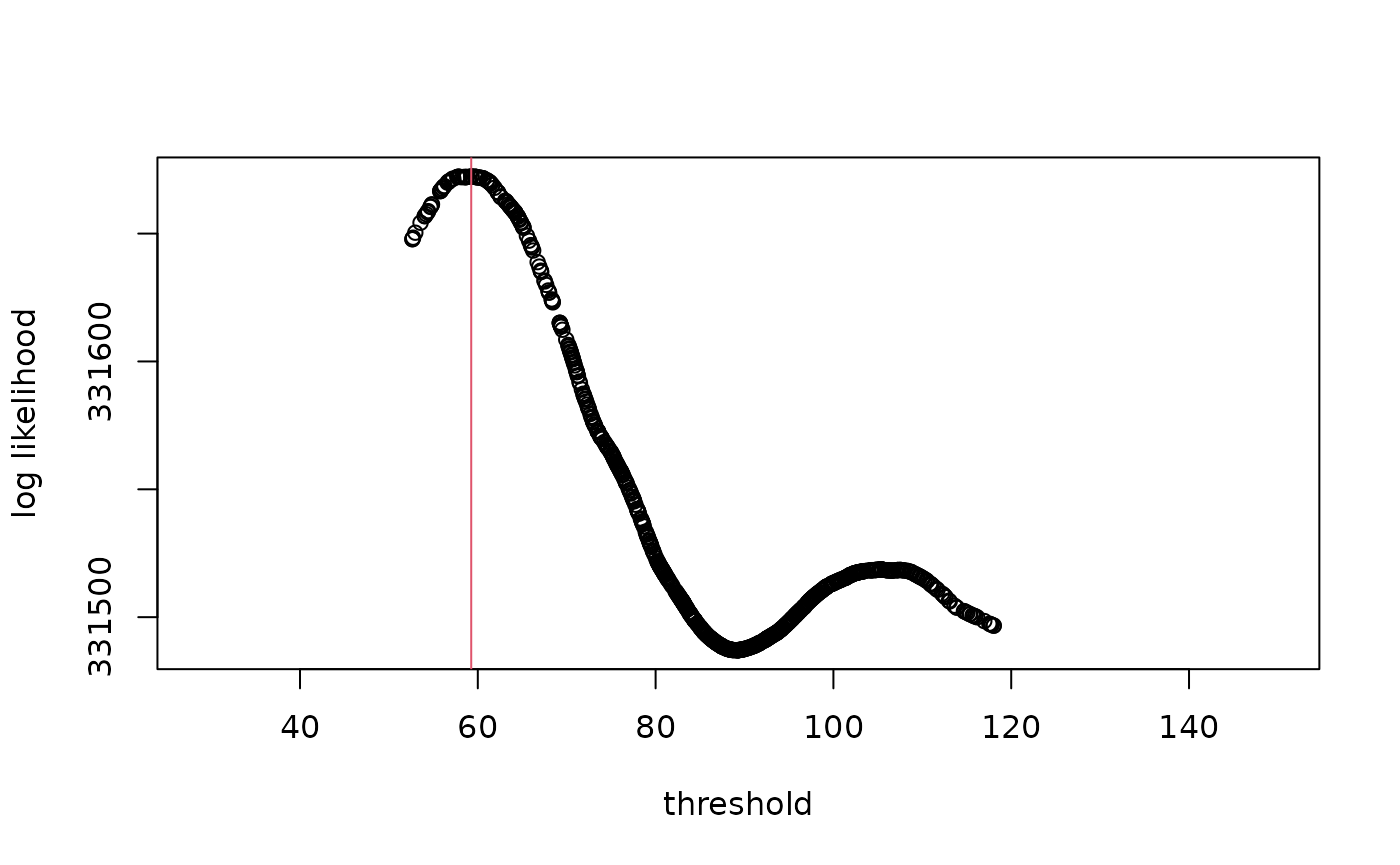
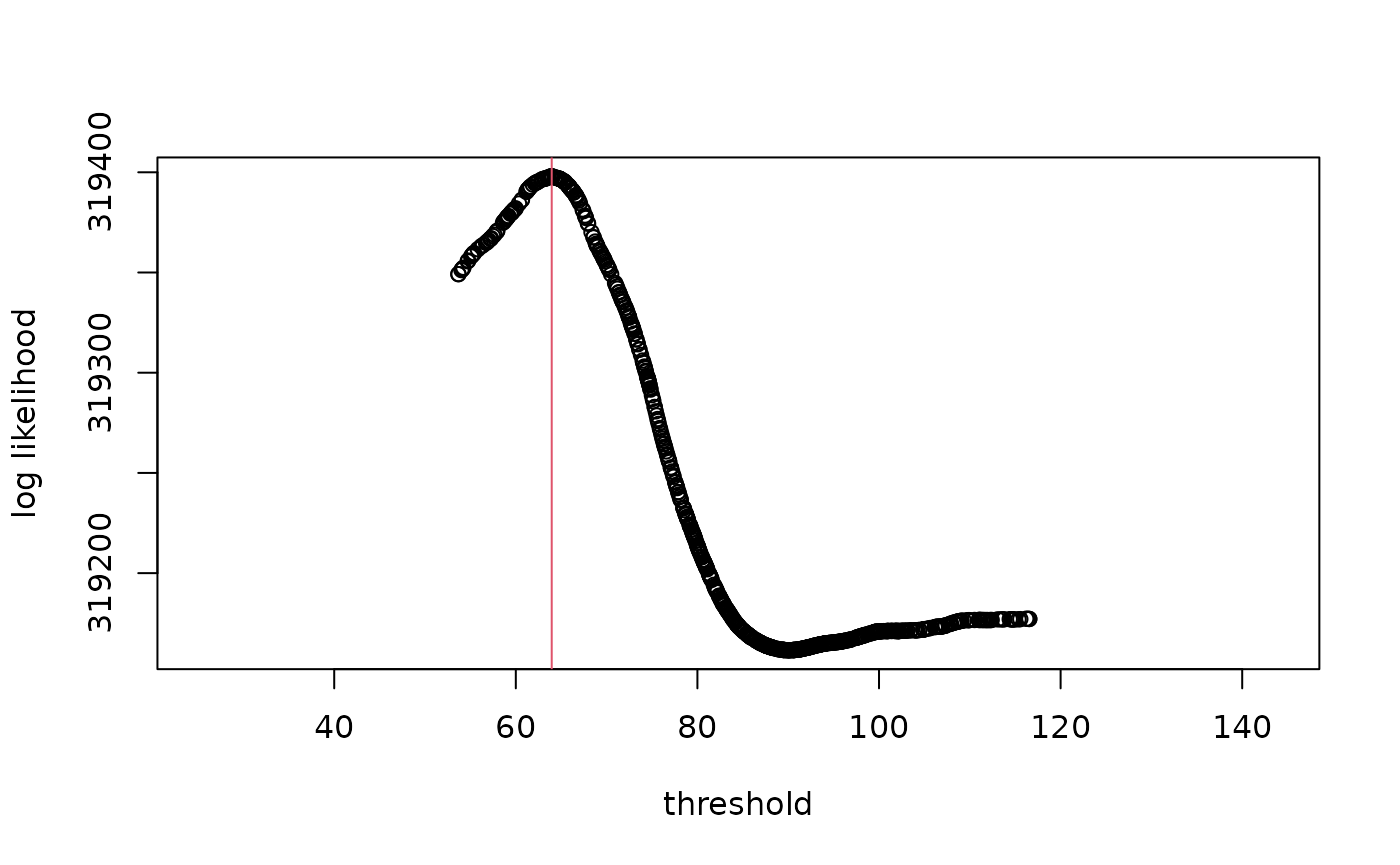
Deploying to gh-pages from @ rmk118/morphmat@f1d512b0329ec5bc2f8ac1f6e49691b1e6e82d68 🚀

diff --git a/articles/broken-stick.html b/articles/broken-stick.html
@@ -101,7 +101,7 @@ is taken to be SM50.</p>
 <p>We will start by simulating a data set with a known SM50 value of 75
 mm to demonstrate the use (and limitations) of broken-stick methods.</p>
 <div class="sourceCode" id="cb2"><pre class="downlit sourceCode r">
-<code class="sourceCode R"><span><span class="fu"><a href="https://rdrr.io/r/base/Random.html" class="external-link">set.seed</a></span><span class="op">(</span><span class="fl">123</span><span class="op">)</span> <span class="co"># set seed for reproducibility</span></span>
+<code class="sourceCode R"><span><span class="fu"><a href="https://rdrr.io/r/base/Random.html" class="external-link">set.seed</a></span><span class="op">(</span><span class="fl">12</span><span class="op">)</span> <span class="co"># set seed for reproducibility</span></span>
 <span></span>
 <span><span class="va">fc</span> <span class="op">&lt;-</span> <span class="fu"><a href="../reference/fake_crustaceans.html">fake_crustaceans</a></span><span class="op">(</span></span>
 <span>  error_scale <span class="op">=</span> <span class="fl">17</span>,</span>
@@ -134,13 +134,13 @@ as those from the “delta” and “gradient” methods included in the
 confidence intervals for the break point:</p>
 <pre><code><span><span class="co">#&gt; Delta method:</span></span>
 <span><span class="co">#&gt;           Est. CI(95%).low CI(95%).up</span></span>
-<span><span class="co">#&gt; psi1.x 59.2594     52.0697     66.449</span></span>
+<span><span class="co">#&gt; psi1.x 63.9545     57.1425    70.7665</span></span>
 <span><span class="co">#&gt; Score method:</span></span>
 <span><span class="co">#&gt;           Est. CI(95%).low CI(95%).up</span></span>
-<span><span class="co">#&gt; psi1.x 59.2594     51.6198    65.0947</span></span>
+<span><span class="co">#&gt; psi1.x 63.9545     50.1308    67.6307</span></span>
 <span><span class="co">#&gt; Gradient method:</span></span>
 <span><span class="co">#&gt;           Est. CI(95%).low CI(95%).up</span></span>
-<span><span class="co">#&gt; psi1.x 59.2594      51.016    67.7093</span></span></code></pre>
+<span><span class="co">#&gt; psi1.x 63.9545     53.7911    70.2144</span></span></code></pre>
 <p>We can also use an ANOVA test to compare the segmented model to a
 single linear model:</p>
 <div class="sourceCode" id="cb5"><pre class="downlit sourceCode r">
@@ -149,9 +149,9 @@ single linear model:</p>
 <span><span class="co">#&gt; </span></span>
 <span><span class="co">#&gt; Model 1: y ~ x</span></span>
 <span><span class="co">#&gt; Model 2: y ~ x + U1.x + psi1.x</span></span>
-<span><span class="co">#&gt;   Res.Df    RSS Df Sum of Sq      F   Pr(&gt;F)    </span></span>
-<span><span class="co">#&gt; 1    798 7681.8                                 </span></span>
-<span><span class="co">#&gt; 2    796 7496.5  2    185.29 9.8375 6.02e-05 ***</span></span>
+<span><span class="co">#&gt;   Res.Df    RSS Df Sum of Sq      F    Pr(&gt;F)    </span></span>
+<span><span class="co">#&gt; 1    798 7866.2                                  </span></span>
+<span><span class="co">#&gt; 2    796 7629.8  2     236.4 12.332 5.318e-06 ***</span></span>
 <span><span class="co">#&gt; ---</span></span>
 <span><span class="co">#&gt; Signif. codes:  0 '***' 0.001 '**' 0.01 '*' 0.05 '.' 0.1 ' ' 1</span></span></code></pre></div>
 <div class="figure">
@@ -185,13 +185,13 @@ breakpoint <span class="citation">(<a href="#ref-fong2017">Fong et al.
 <span><span class="co">#&gt; </span></span>
 <span><span class="co">#&gt; Coefficients:</span></span>
 <span><span class="co">#&gt;                    est Std. Error*     (lower    upper)     p.value*</span></span>
-<span><span class="co">#&gt; (Intercept) -0.1642533  0.84261672 -2.0797746 1.2232829 8.454458e-01</span></span>
-<span><span class="co">#&gt; x            0.1775513  0.01840241  0.1477799 0.2199174 4.999353e-22</span></span>
-<span><span class="co">#&gt; (x-chngpt)+  0.1626764  0.01871295  0.1230745 0.1964292 3.522081e-18</span></span>
+<span><span class="co">#&gt; (Intercept) -0.9153689  0.62858364 -1.9643531 0.4996948 1.453262e-01</span></span>
+<span><span class="co">#&gt; x            0.2005470  0.01357774  0.1688772 0.2221020 2.277627e-49</span></span>
+<span><span class="co">#&gt; (x-chngpt)+  0.1425691  0.01659954  0.1134477 0.1785179 8.793325e-18</span></span>
 <span><span class="co">#&gt; </span></span>
 <span><span class="co">#&gt; Threshold:</span></span>
 <span><span class="co">#&gt;        est Std. Error     (lower     upper) </span></span>
-<span><span class="co">#&gt;  59.259390   2.342262  55.983514  65.165182</span></span></code></pre></div>
+<span><span class="co">#&gt;  63.954507   2.031396  58.890638  66.853710</span></span></code></pre></div>
 <div class="figure">
 <img src="broken-stick_files/figure-html/fig-chngpt-plots-1.png" alt="Broken-stick model from the package chngpt" width="700"><p class="caption">
 Broken-stick model from the package chngpt
@@ -225,7 +225,7 @@ produces very similar results to the default bootstrap method.</p>
 <span>  <span class="op">)</span></span>
 <span><span class="op">)</span><span class="op">[[</span><span class="st">"chngpt"</span><span class="op">]</span><span class="op">]</span></span>
 <span><span class="co">#&gt;        est Std. Error     (lower     upper) </span></span>
-<span><span class="co">#&gt;  59.259390   4.019829  51.157970  66.915699</span></span></code></pre></div>
+<span><span class="co">#&gt;  63.954507   3.364602  55.814677  69.003917</span></span></code></pre></div>
 <p>Adding a starting breakpoint value of 75 (i.e., initializing the
 search at the correct value) through the “chngpt.init” argument does not
 affect the estimate, although it does result in narrower confidence
@@ -243,7 +243,7 @@ intervals:</p>
 <span>  <span class="op">)</span></span>
 <span><span class="op">)</span><span class="op">[[</span><span class="st">"chngpt"</span><span class="op">]</span><span class="op">]</span></span>
 <span><span class="co">#&gt;        est Std. Error     (lower     upper) </span></span>
-<span><span class="co">#&gt;  59.259390   2.342262  55.983514  65.165182</span></span></code></pre></div>
+<span><span class="co">#&gt;  63.954507   2.031396  58.890638  66.853710</span></span></code></pre></div>
 <p>This method is EXTREMELY sensitive to the “lb.quantile” and
 “ub.quantile” arguments, which refer to the lower and upper bounds of
 the search range for change point estimate, respectively (the function
@@ -265,7 +265,7 @@ SM50 value closer to the true value of 75 mm.</p>
 <span>  <span class="op">)</span></span>
 <span><span class="op">)</span><span class="op">[[</span><span class="st">"chngpt"</span><span class="op">]</span><span class="op">]</span><span class="op">[</span><span class="fl">1</span><span class="op">]</span></span>
 <span><span class="co">#&gt;      est </span></span>
-<span><span class="co">#&gt; 77.05939</span></span></code></pre></div>
+<span><span class="co">#&gt; 76.00473</span></span></code></pre></div>
 <p>The estimates and accuracy also change dramatically even with
 slightly different variations of data with the exact same underlying
 structure. Results from detailed investigations of the sensitivity of
@@ -300,7 +300,7 @@ fast and might be helpful for large data sets).</p>
 <span><span class="co">#&gt;  Maximum of Likelihood Ratio Statistics</span></span>
 <span><span class="co">#&gt; </span></span>
 <span><span class="co">#&gt; data:  fc</span></span>
-<span><span class="co">#&gt; Maximal statistic = 19.533, threshold = 59.306, p-value = 4e-05</span></span>
+<span><span class="co">#&gt; Maximal statistic = 24.358, threshold = 64.292, p-value &lt; 2.2e-16</span></span>
 <span><span class="co">#&gt; alternative hypothesis: two-sided</span></span>
 <span></span>
 <span><span class="co"># Model with better upper and lower bounds to return</span></span>
@@ -318,7 +318,7 @@ fast and might be helpful for large data sets).</p>
 <span><span class="co">#&gt;  Maximum of Likelihood Ratio Statistics</span></span>
 <span><span class="co">#&gt; </span></span>
 <span><span class="co">#&gt; data:  fc</span></span>
-<span><span class="co">#&gt; Maximal statistic = 7.7314, threshold = 75.475, p-value = 0.01028</span></span>
+<span><span class="co">#&gt; Maximal statistic = 13.909, threshold = 74.531, p-value = 0.00036</span></span>
 <span><span class="co">#&gt; alternative hypothesis: two-sided</span></span></code></pre></div>
 <p>It is interesting that this function returns a slightly different
 breakpoint/threshold estimate from the <code><a href="https://rdrr.io/pkg/chngpt/man/chngptm.html" class="external-link">chngptm()</a></code> function
@@ -343,7 +343,7 @@ quantile to the 0.8 quantile of the x-axis variable.</p>
 <div class="sourceCode" id="cb11"><pre class="downlit sourceCode r">
 <code class="sourceCode R"><span><span class="va">regrans_est</span> <span class="op">&lt;-</span> <span class="fu"><a href="../reference/regrans.html">regrans</a></span><span class="op">(</span><span class="va">fc</span>, <span class="st">"x"</span>, <span class="st">"y"</span>, verbose <span class="op">=</span> <span class="cn">FALSE</span><span class="op">)</span></span>
 <span><span class="va">regrans_est</span></span>
-<span><span class="co">#&gt; [1] 69.35071</span></span></code></pre></div>
+<span><span class="co">#&gt; [1] 67.67091</span></span></code></pre></div>
 <p><img src="broken-stick_files/figure-html/unnamed-chunk-16-1.png" width="700"></p>
 <p>As with the previous broken-stick methods, REGRANS tends to
 underestimate SM50 and the model estimates are highly sensitive to the
@@ -364,7 +364,7 @@ values of the x-variable present in the data set</em>.</p>
 <div class="sourceCode" id="cb12"><pre class="downlit sourceCode r">
 <code class="sourceCode R"><span><span class="va">stevens_est</span> <span class="op">&lt;-</span> <span class="fu"><a href="../reference/broken_stick_stevens.html">broken_stick_stevens</a></span><span class="op">(</span><span class="va">fc</span>, <span class="st">"x"</span>, <span class="st">"y"</span>, verbose <span class="op">=</span> <span class="cn">FALSE</span><span class="op">)</span></span>
 <span><span class="va">stevens_est</span></span>
-<span><span class="co">#&gt; [1] 73.51211</span></span></code></pre></div>
+<span><span class="co">#&gt; [1] 68.33387</span></span></code></pre></div>
 <p><img src="broken-stick_files/figure-html/unnamed-chunk-18-1.png" width="700"></p>
 <div class="section level3 unnumbered">
 <h3 class="unnumbered" id="references">References<a class="anchor" aria-label="anchor" href="#references"></a>

diff --git a/articles/two-line.html b/articles/two-line.html
@@ -74,7 +74,7 @@
     
 <!-- Here I will write a vignette explaining all of the two-line regression methods. This will be useful for referring readers to more complex options available in packages like `chngpt` that are not available within `morphmat`. -->
 <div class="section level3">
-<h3 id="sec-twoA">Standard<a class="anchor" aria-label="anchor" href="#sec-twoA"></a>
+<h3 id="sec-twoA">Description<a class="anchor" aria-label="anchor" href="#sec-twoA"></a>
 </h3>
 <p>Two-line models differ from broken-stick models because the
 intersection point of the line representing the immature individuals and
@@ -88,19 +88,17 @@ piecewise regression model to find the x-value/breakpoint that gives the
 lowest mean square error (MSE) by iteratively testing each observed
 x-value within the range of unknown maturity. In the second version, the
 tested x-values are evenly spaced points within the unknown range, and
-may not equal actual observed values (like REGRANS). The number and
-interval between points can be user-defined, but we will follow the
-convention of REGRANS and simply test every integer value in the unknown
-range.</p>
+may not equal actual observed values (like REGRANS). The number of (and
+therefore interval between) points can be user-defined.</p>
 <p>The SM50 could be defined as the optimal breakpoint OR as the point
 at which the two lines actually intersect; i.e. where the regression
-equations predict the same y-value. The intersection point may be lower
-than the previously determined breakpoint and can even be negative, so
-it is often more reasonable to use the breakpoint as our estimate of
-SM50.</p>
+equations predict the same y-value. The intersection point may be much
+lower or higher than the previously determined breakpoint and can even
+be negative, so it is often more reasonable to use the breakpoint as our
+estimate of SM50.</p>
 </div>
 <div class="section level2">
-<h2 id="two-line-stevens">Two-line Stevens<a class="anchor" aria-label="anchor" href="#two-line-stevens"></a>
+<h2 id="two-line-standard">Two-line: standard<a class="anchor" aria-label="anchor" href="#two-line-standard"></a>
 </h2>
 <div class="sourceCode" id="cb1"><pre class="downlit sourceCode r">
 <code class="sourceCode R"><span><span class="fu"><a href="https://rdrr.io/r/base/Random.html" class="external-link">set.seed</a></span><span class="op">(</span><span class="fl">123</span><span class="op">)</span> <span class="co"># set seed for reproducibility</span></span>
@@ -114,16 +112,33 @@ SM50.</p>
 <span>  x_mean <span class="op">=</span> <span class="fl">85</span></span>
 <span><span class="op">)</span></span></code></pre></div>
 <p><img src="two-line_files/figure-html/unnamed-chunk-4-1.png" width="700"></p>
+<p>The default function call iterates over 100 evenly-spaced points
+between the default upper and lower bounds (0.2 and 0.8 quantiles of the
+x-axis variable) of the region to search for possible SM50 values.</p>
 <div class="sourceCode" id="cb2"><pre class="downlit sourceCode r">
-<code class="sourceCode R"><span><span class="va">stevens_est</span> <span class="op">&lt;-</span> <span class="fu"><a href="../reference/two_line.html">two_line</a></span><span class="op">(</span><span class="va">fc</span>, <span class="st">"x"</span>, <span class="st">"y"</span>, verbose <span class="op">=</span> <span class="cn">FALSE</span><span class="op">)</span></span>
-<span><span class="va">stevens_est</span></span>
+<code class="sourceCode R"><span><span class="va">two_line_est</span> <span class="op">&lt;-</span> <span class="fu"><a href="../reference/two_line.html">two_line</a></span><span class="op">(</span><span class="va">fc</span>, <span class="st">"x"</span>, <span class="st">"y"</span>, verbose <span class="op">=</span> <span class="cn">FALSE</span><span class="op">)</span></span>
+<span><span class="va">two_line_est</span></span>
 <span><span class="co">#&gt;   breakpoint intersection </span></span>
 <span><span class="co">#&gt;     88.01449    385.85516</span></span></code></pre></div>
+<p>The result can be influenced by the number of breakpoints tested:</p>
+<div class="sourceCode" id="cb3"><pre class="downlit sourceCode r">
+<code class="sourceCode R"><span><span class="fu"><a href="../reference/two_line.html">two_line</a></span><span class="op">(</span><span class="va">fc</span>, <span class="st">"x"</span>, <span class="st">"y"</span>, verbose <span class="op">=</span> <span class="cn">FALSE</span>, num_bps <span class="op">=</span> <span class="fl">200</span><span class="op">)</span></span>
+<span><span class="co">#&gt;   breakpoint intersection </span></span>
+<span><span class="co">#&gt;     87.59491    529.48825</span></span>
+<span><span class="fu"><a href="../reference/two_line.html">two_line</a></span><span class="op">(</span><span class="va">fc</span>, <span class="st">"x"</span>, <span class="st">"y"</span>, verbose <span class="op">=</span> <span class="cn">FALSE</span>, num_bps <span class="op">=</span> <span class="fl">400</span><span class="op">)</span></span>
+<span><span class="co">#&gt;   breakpoint intersection </span></span>
+<span><span class="co">#&gt;     87.63043    529.48825</span></span></code></pre></div>
+<p>Alternatively, possible breakpoints can be restricted to values of
+the x-axis variable present in the data:</p>
+<div class="sourceCode" id="cb4"><pre class="downlit sourceCode r">
+<code class="sourceCode R"><span><span class="fu"><a href="../reference/two_line.html">two_line</a></span><span class="op">(</span><span class="va">fc</span>, <span class="st">"x"</span>, <span class="st">"y"</span>, verbose <span class="op">=</span> <span class="cn">FALSE</span>, bps <span class="op">=</span> <span class="st">"obs"</span><span class="op">)</span></span>
+<span><span class="co">#&gt;   breakpoint intersection </span></span>
+<span><span class="co">#&gt;     88.03361    435.79877</span></span></code></pre></div>
 </div>
 <div class="section level2">
-<h2 id="two-line-with-logistic-transition">Two-line with logistic transition<a class="anchor" aria-label="anchor" href="#two-line-with-logistic-transition"></a>
+<h2 id="two-line-logistic-transition">Two-line: logistic transition<a class="anchor" aria-label="anchor" href="#two-line-logistic-transition"></a>
 </h2>
-<div class="sourceCode" id="cb3"><pre class="downlit sourceCode r">
+<div class="sourceCode" id="cb5"><pre class="downlit sourceCode r">
 <code class="sourceCode R"><span><span class="va">tll_est</span> <span class="op">&lt;-</span> <span class="fu"><a href="../reference/two_line_logistic.html">two_line_logistic</a></span><span class="op">(</span><span class="va">fc</span>, <span class="st">"x"</span>, <span class="st">"y"</span>, verbose <span class="op">=</span> <span class="cn">FALSE</span><span class="op">)</span></span>
 <span><span class="va">tll_est</span></span>
 <span><span class="co">#&gt;     SM50 </span></span>

diff --git a/index.html b/index.html
@@ -136,7 +136,7 @@
 </tr>
 </tbody>
 </table>
-<p>The following scripts do not use morphometric data and require individuals to already be classified as mature or immature. They provide various examples of how to fit maturity~length binomial models to estimate SM50 and obtain confidence intervals. These tools can also be used to calculate size at maturity for non-crustacean fisheries. For a comprehensive examination of this type of model, see (<a href="#ref-mainguy2024">Mainguy et al. 2024</a>).</p>
+<p>The following scripts do not use morphometric data and require individuals to already be classified as mature or immature. They provide various examples of how to fit maturity~length binomial models to estimate SM50 and obtain confidence intervals. These tools can also be used to calculate size at maturity for non-crustacean fisheries. For a comprehensive examination of this type of model, see Mainguy et al (<a href="#ref-mainguy2024">2024</a>).</p>
 <table class="table">
 <colgroup>
 <col width="25%">
@@ -207,7 +207,7 @@
 <code class="sourceCode R"><span><span class="fu"><a href="reference/two_line.html">two_line</a></span><span class="op">(</span><span class="va">fc</span>, xvar <span class="op">=</span> <span class="st">"x"</span>, yvar <span class="op">=</span> <span class="st">"y"</span>, verbose <span class="op">=</span> <span class="cn">FALSE</span><span class="op">)</span></span>
 <span><span class="co">#&gt;   breakpoint intersection </span></span>
 <span><span class="co">#&gt;     106.0655    1383.9744</span></span></code></pre></div>
-<p>Broken-stick Stevens:</p>
+<p>Broken-stick Stevens (only iterates over values of the x-axis variable present in the data):</p>
 <div class="sourceCode" id="cb6"><pre class="downlit sourceCode r">
 <code class="sourceCode R"><span><span class="fu"><a href="reference/broken_stick_stevens.html">broken_stick_stevens</a></span><span class="op">(</span><span class="va">fc</span>, xvar <span class="op">=</span> <span class="st">"x"</span>, yvar <span class="op">=</span> <span class="st">"y"</span>, verbose <span class="op">=</span> <span class="cn">FALSE</span><span class="op">)</span></span>
 <span><span class="co">#&gt; [1] 91.10524</span></span></code></pre></div>

diff --git a/articles/simulations.html b/articles/simulations.html
@@ -138,10 +138,10 @@ where
 is a location parameter and
 <math display="inline" xmlns="http://www.w3.org/1998/Math/MathML"><semantics><mi>b</mi><annotation encoding="application/x-tex">b</annotation></semantics></math>
 is the shape parameter.</p>
-<p>The allometric growth equation is \begin{equation}Y=\beta
-X^{\alpha},\end{equation}</p>
+<p>The allometric growth equation is
+<math display="block" xmlns="http://www.w3.org/1998/Math/MathML"><semantics><mrow><mi>Y</mi><mo>=</mo><mi>β</mi><msup><mi>X</mi><mi>α</mi></msup></mrow><annotation encoding="application/x-tex">Y=\beta X^{\alpha}</annotation></semantics></math></p>
 <p>which results in a linear plot when log-transformed:
-<math display="inline" xmlns="http://www.w3.org/1998/Math/MathML"><semantics><mrow><mo>log</mo><mrow><mo stretchy="true" form="prefix">(</mo><mi>Y</mi><mo stretchy="true" form="postfix">)</mo></mrow><mo>=</mo><mover><mi>β</mi><mo accent="true">̃</mo></mover><mo>+</mo><mi>α</mi><mo>log</mo><mrow><mo stretchy="true" form="prefix">(</mo><mi>X</mi><mo stretchy="true" form="postfix">)</mo></mrow></mrow><annotation encoding="application/x-tex">\log{(Y)}= \tilde\beta+\alpha \log{(X)}</annotation></semantics></math>.
+<math display="inline" xmlns="http://www.w3.org/1998/Math/MathML"><semantics><mrow><mo>log</mo><mrow><mo stretchy="true" form="prefix">(</mo><mi>Y</mi><mo stretchy="true" form="postfix">)</mo></mrow><mo>=</mo><mover><mi>β</mi><mo accent="true">̃</mo></mover><mo>+</mo><mi>α</mi><mo>log</mo><mrow><mo stretchy="true" form="prefix">(</mo><mi>X</mi><mo stretchy="true" form="postfix">)</mo></mrow></mrow><annotation encoding="application/x-tex">\log{(Y)}= \tilde{\beta}+\alpha\log{(X)}</annotation></semantics></math>.
 Here,
 <math display="inline" xmlns="http://www.w3.org/1998/Math/MathML"><semantics><mi>α</mi><annotation encoding="application/x-tex">\alpha</annotation></semantics></math>
 is the slope of the allometric line and
